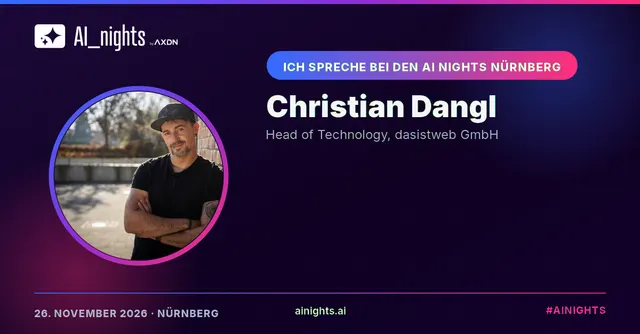
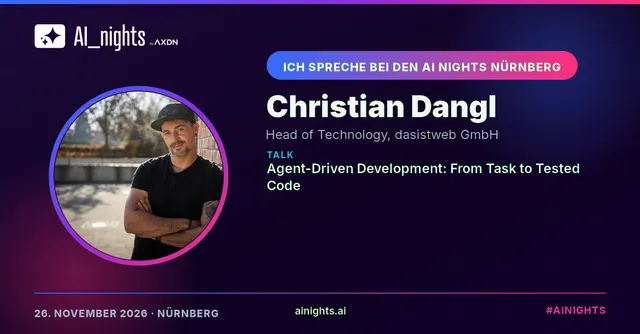
Christian Dangl: Talk, Line-up-Slot und Ankuendigung fuer #06
Session "Agent-Driven Development: From Task to Tested Code" (20:00-Slot) aus
den Airtable-Daten angelegt und mit dem Event verknuepft; damit ist das
Line-up der Anniversary-Ausgabe komplett und der letzte Platzhalter-Slot
faellt weg. Themen und Key Takeaways im Speaker-Datensatz ergaenzt.

Ankuendigungs-Blogpost mit heutigem Datum, also sofort sichtbar. Die
Announcement-Grafiken neu erzeugt, weil das Querformat jetzt den Talk-Titel
zeigt - inklusive frischer WebP-Varianten.

Claude-Session: https://claude.ai/code/session_01EosivGxKPWh3eY9zup7PpV

Changed region(s): [[0.4062, 0.4491, 0.9062, 0.5689]]

diff --git a/src/content/blog/agent-driven-development-christian-dangl-ai-nights-06.md b/src/content/blog/agent-driven-development-christian-dangl-ai-nights-06.md
@@ -1,0 +1,47 @@
+---
+title: 'Agent-Driven Development: From Task to Tested Code – Christian Dangl bei der Anniversary-Ausgabe der AI Nights'
+description: 'Speaker-Ankündigung für die AI Nights Nürnberg #06: Christian Dangl (Head of Technology, dasistweb GmbH) baut live ein Projekt mit einem Team aus KI-Agenten – inklusive Quality Gates und QA-Pipeline.'
+pubDate: 2026-09-02
+author: 'AI Nights Team'
+category: speaker-announcements
+image:
+  src: '/wp-content/uploads/2026/08/christian-dangl.jpg'
+  alt: 'Christian Dangl'
+tags:
+  - speaker-ankuendigung
+  - nuernberg
+  - entwickler
+  - agenten
+---
+
+Das Lineup für die AI Nights Nürnberg | INSPIRE ✨ #06 - Anniversary! ist komplett! Den dritten Slot übernimmt Christian Dangl, Head of Technology bei der E-Commerce-Agentur dasistweb GmbH — mit einem Talk, der ohne Folienschlacht auskommt und stattdessen live Software entstehen lässt.
+
+## Worum geht es in diesem Talk?
+
+KI-gestützte Entwicklung verspricht schnellere Lieferung, smartere Workflows und ein neues Level an Automatisierung. Aber Tempo allein reicht nicht: Wer mit KI-Agenten verlässliche Software bauen will, braucht mehr als gute Prompts — klare Instruktionen, harte Quality Gates und einen Entwicklungsprozess, der die Codequalität von der ersten Idee bis zum finalen Review schützt.
+
+Christian entwickelt Schritt für Schritt ein kleines Softwareprojekt, lässt die Lösung wachsen und verfeinert sie gemeinsam mit dem Publikum. Unterwegs geht es um typische Stolperfallen, brauchbare Best Practices und konkrete Muster für die Arbeit mit einem oder mehreren Agenten: paralleles Arbeiten, Delegieren, QA-Gates. Mal langsamer, mal schneller — also so, wie man heute tatsächlich arbeitet. Das Ziel ist nicht, KI blind zu vertrauen, sondern ein Setup zu bauen, in dem die KI schnell sein darf, während Architektur, Tests und Reviews die Kontrolle behalten.
+
+## Das nimmst du mit
+
+- Was man aufbereiten muss, damit ein Team aus Agenten autark arbeiten kann
+- Wie gute Agenten-Instruktionen aussehen
+- Wie man mit verschiedenen Agenten-Personas arbeitet und Aufgaben delegiert
+- Wie man eine QA-Pipeline für das eigene Agenten-Team baut
+- Wie Orchestrierung in der Praxis läuft — und was realistisch zu erwarten ist
+
+## Über Christian Dangl
+
+Christian ist Head of Technology bei der E-Commerce-Agentur dasistweb GmbH. Seine Schwerpunkte liegen in Software- und Systemarchitektur, Automatisierung, QA und modernen AI-Systemen. Er arbeitet daran, Unternehmenswissen, Prozesse und Softwareentwicklung intelligenter und nachhaltiger miteinander zu verbinden. Außerdem ist er Geschäftsführer der Live Score GmbH, einer Scoreboard-Playout-Software für Sportübertragungen. Christian entwickelt Tools für Docker, Testing und AI-Orchestrierung, schreibt Bücher und Fachartikel, gibt Schulungen und spricht regelmäßig in Webinaren und auf Konferenzen über Softwarequalität, Architektur und moderne Entwicklungsprozesse.
+
+[Zum Speaker-Profil von Christian Dangl →](/speaker/christian-dangl/)
+
+## AI Nights Nürnberg | INSPIRE ✨ #06 - Anniversary! auf einen Blick
+
+- 📅 Donnerstag, 26. November 2026
+- 🕐 Einlass ab 17:00 Uhr
+- 📍 Design Offices Nürnberg City, Nürnberg
+
+Wie immer gilt: 100 % KI-Fokus, kurze Sessions, entspannte Pausen mit Drinks & Snacks — und genug Raum für echte Gespräche.
+
+[Alle Infos & Tickets zum Event →](/events/ai-nights-nuernberg-06/)
